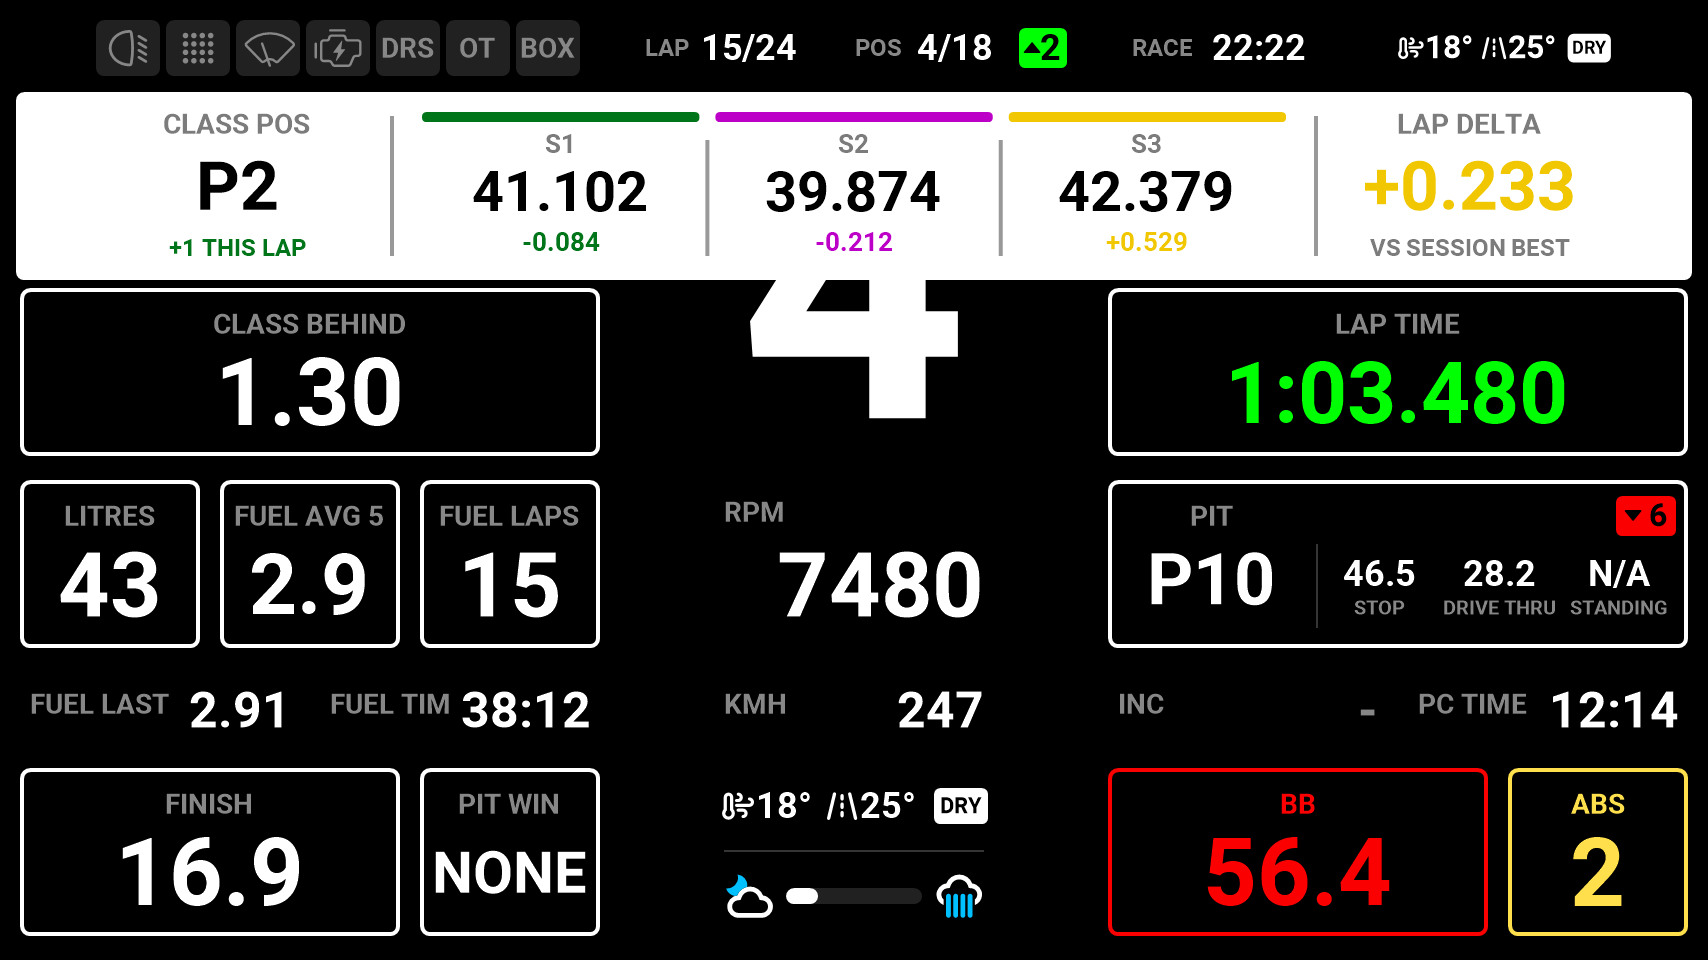
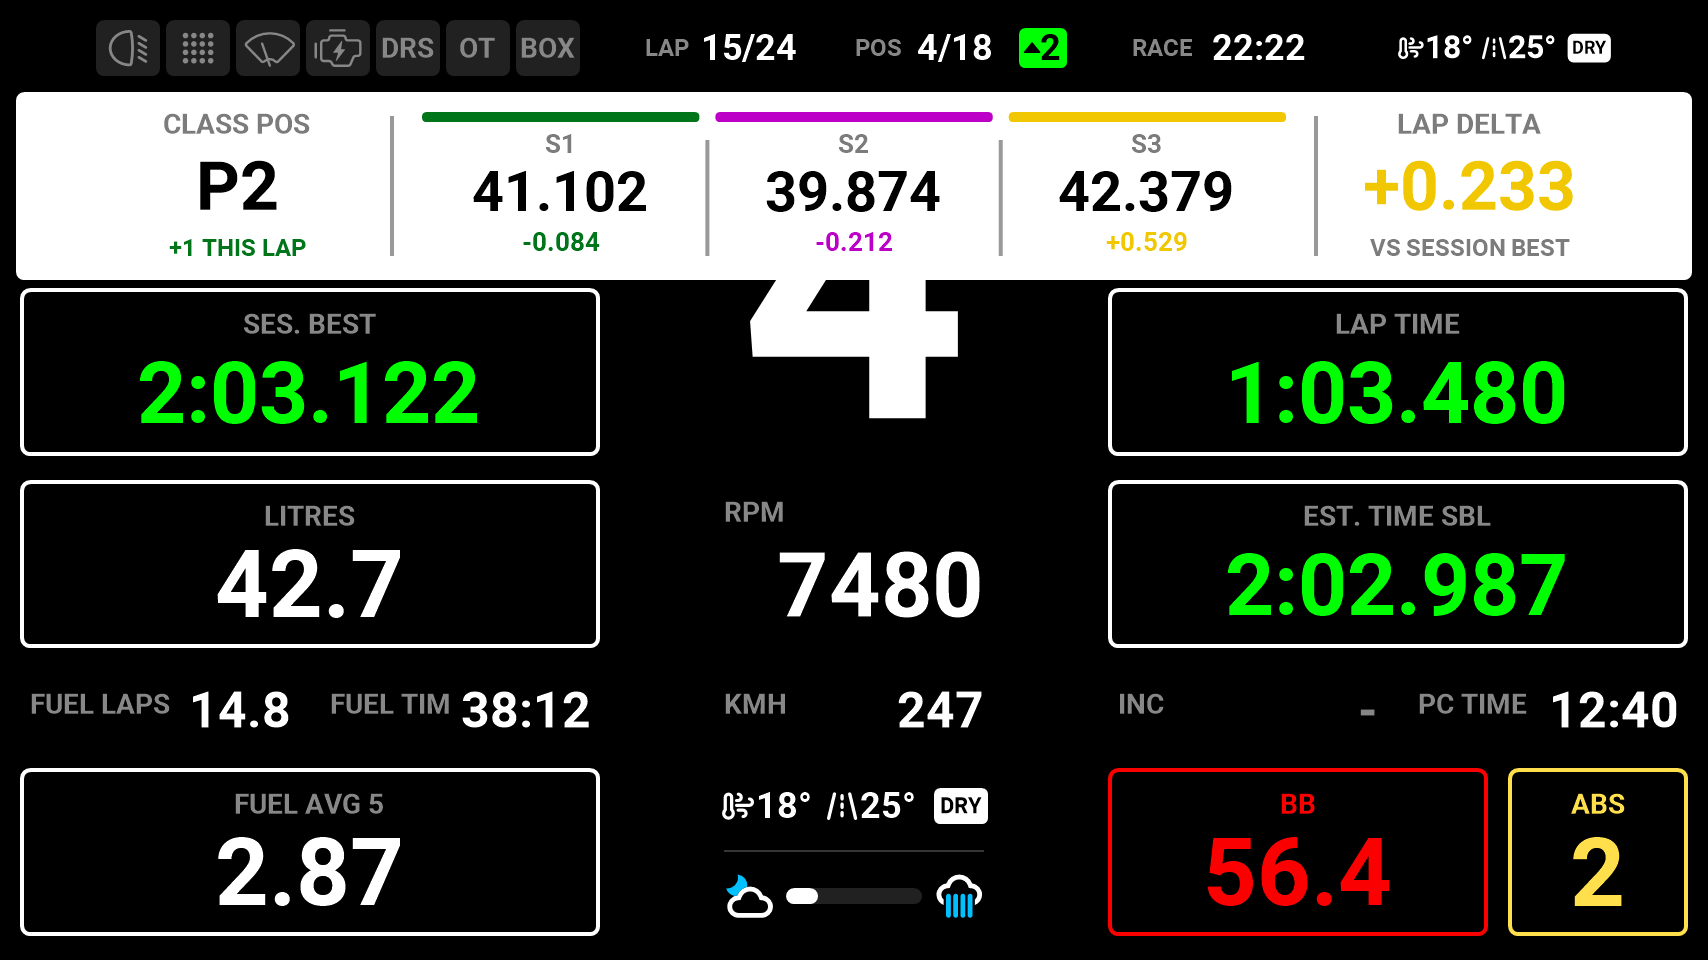
Update preset: iRacing TCR Dash (#16)
The pages now run Practice, Qualification, Race (Primary renamed Race,
its layout unchanged). Qualification fills its gap: Last Lap, Session
Best and Class Best on the left; Practice shows Last Lap and Session
Best. Re-rendered, with the preview over Practice.

Closes #16

diff --git a/presets/iracing-tcr-dash/README.md b/presets/iracing-tcr-dash/README.md
@@ -3,15 +3,15 @@
 
 # iRacing TCR Dash
 
-For iRacing's TCR class, with a page for each session that follows your own class in multiclass races. The race page has the gaps to the class cars ahead and behind, fuel use, the pit window and pit loss; qualifying is all about lap times, with the session and class bests; practice keeps the lap times and fuel use in view. RPM and speed in the centre, brake bias and ABS at the bottom right.
+For iRacing's TCR class, with a page for each session that follows your own class in multiclass races. Practice and qualifying are about lap times, with the last lap, the session best and the delta (and the class best in qualifying), plus fuel use; the race page has the gaps to the class cars ahead and behind, fuel use, the pit window and pit loss. RPM and speed in the centre, brake bias and ABS at the bottom right.
 
-![Primary](pages/01-primary.png)
+![Practice](pages/01-practice.png)
 
 | | |
 | --- | --- |
 | **Author** | Chris Indeherberge |
 | **Tags** | `iRacing` `TCR` `Endurance` `Multiclass` `16:9` |
-| **Pages** | 3: Primary, Qualification, Practice |
+| **Pages** | 3: Practice, Qualification, Race |
 | **Added** | 2026-11-24 |
 | **Updated** | 2026-11-24 |
 | **Preset format** | v1 |
@@ -25,8 +25,38 @@ Importing replaces the pages and layouts, the Lap Review and the Alerts & Notifi
 
 ## Pages
 
-### 1. Primary
-![Primary](pages/01-primary.png)
+### 1. Practice
+![Practice](pages/01-practice.png)
+
+| | |
+| --- | --- |
+| **Layout** | Modular |
+| **Sessions** | Practice |
+| **Topbar** | Utility Bar |
+| **Left modules** | 3 x 3: Last Lap / Session Best / Fuel |
+| **Right modules** | 3 x 3: Delta / Current Lap / Estimated Lap |
+| **Central column** | RPM, Speed, Weather |
+| **Bottom left** | Fuel 5 Lap Average |
+| **Bottom right** | Brake Bias, ABS |
+| **Data row** | Fuel Laps Left, Fuel Time Left, Incidents, PC Time |
+
+### 2. Qualification
+![Qualification](pages/02-qualification.png)
+
+| | |
+| --- | --- |
+| **Layout** | Modular |
+| **Sessions** | Qualifying |
+| **Topbar** | Utility Bar |
+| **Left modules** | 3 x 3: Last Lap / Session Best / Class Session Best |
+| **Right modules** | 3 x 3: Delta / Current Lap / Estimated Lap |
+| **Central column** | RPM, Speed, Weather |
+| **Bottom left** | Fuel |
+| **Bottom right** | Brake Bias, ABS |
+| **Data row** | Fuel Laps Left, Fuel Time Left, Incidents, PC Time |
+
+### 3. Race
+![Race](pages/03-race.png)
 
 | | |
 | --- | --- |
@@ -39,36 +69,6 @@ Importing replaces the pages and layouts, the Lap Review and the Alerts & Notifi
 | **Bottom left** | Refuel, Pit Window |
 | **Bottom right** | Brake Bias, ABS |
 | **Data row** | Fuel Last Lap, Fuel Time Left, Incidents, PC Time |
-
-### 2. Qualification
-![Qualification](pages/02-qualification.png)
-
-| | |
-| --- | --- |
-| **Layout** | Modular |
-| **Sessions** | Qualifying |
-| **Topbar** | Utility Bar |
-| **Left modules** | 3 x 3: Session Best / Class Session Best |
-| **Right modules** | 3 x 3: Delta / Current Lap / Estimated Lap |
-| **Central column** | RPM, Speed, Weather |
-| **Bottom left** | Fuel |
-| **Bottom right** | Brake Bias, ABS |
-| **Data row** | Fuel Laps Left, Fuel Time Left, Incidents, PC Time |
-
-### 3. Practice
-![Practice](pages/03-practice.png)
-
-| | |
-| --- | --- |
-| **Layout** | Modular |
-| **Sessions** | Practice |
-| **Topbar** | Utility Bar |
-| **Left modules** | 3 x 3: Session Best / Class Session Best / Fuel |
-| **Right modules** | 3 x 3: Delta / Current Lap / Estimated Lap |
-| **Central column** | RPM, Speed, Weather |
-| **Bottom left** | Fuel 5 Lap Average |
-| **Bottom right** | Brake Bias, ABS |
-| **Data row** | Fuel Laps Left, Fuel Time Left, Incidents, PC Time |
 
 ## Lap Review
 ![Lap Review](lap-review.png)
